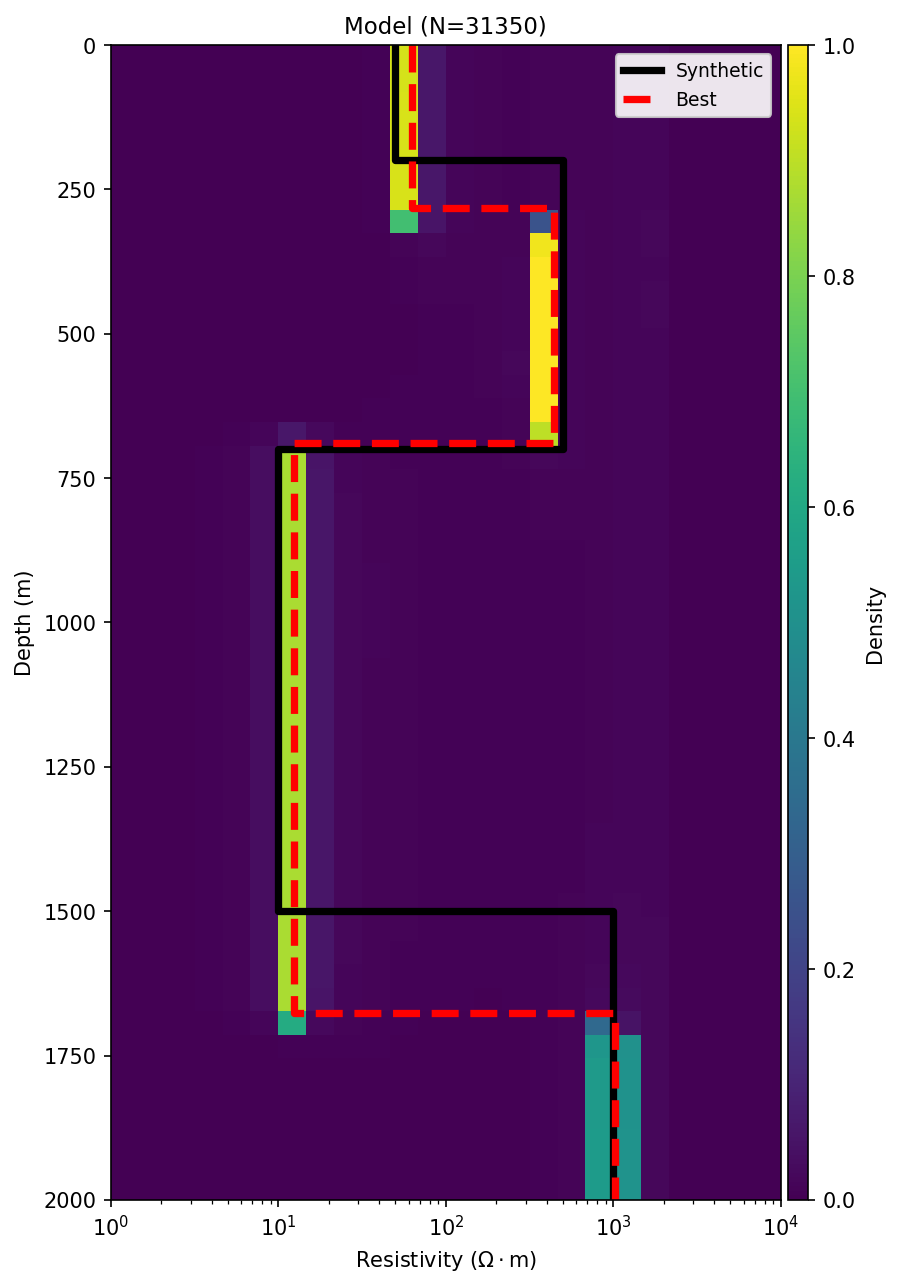
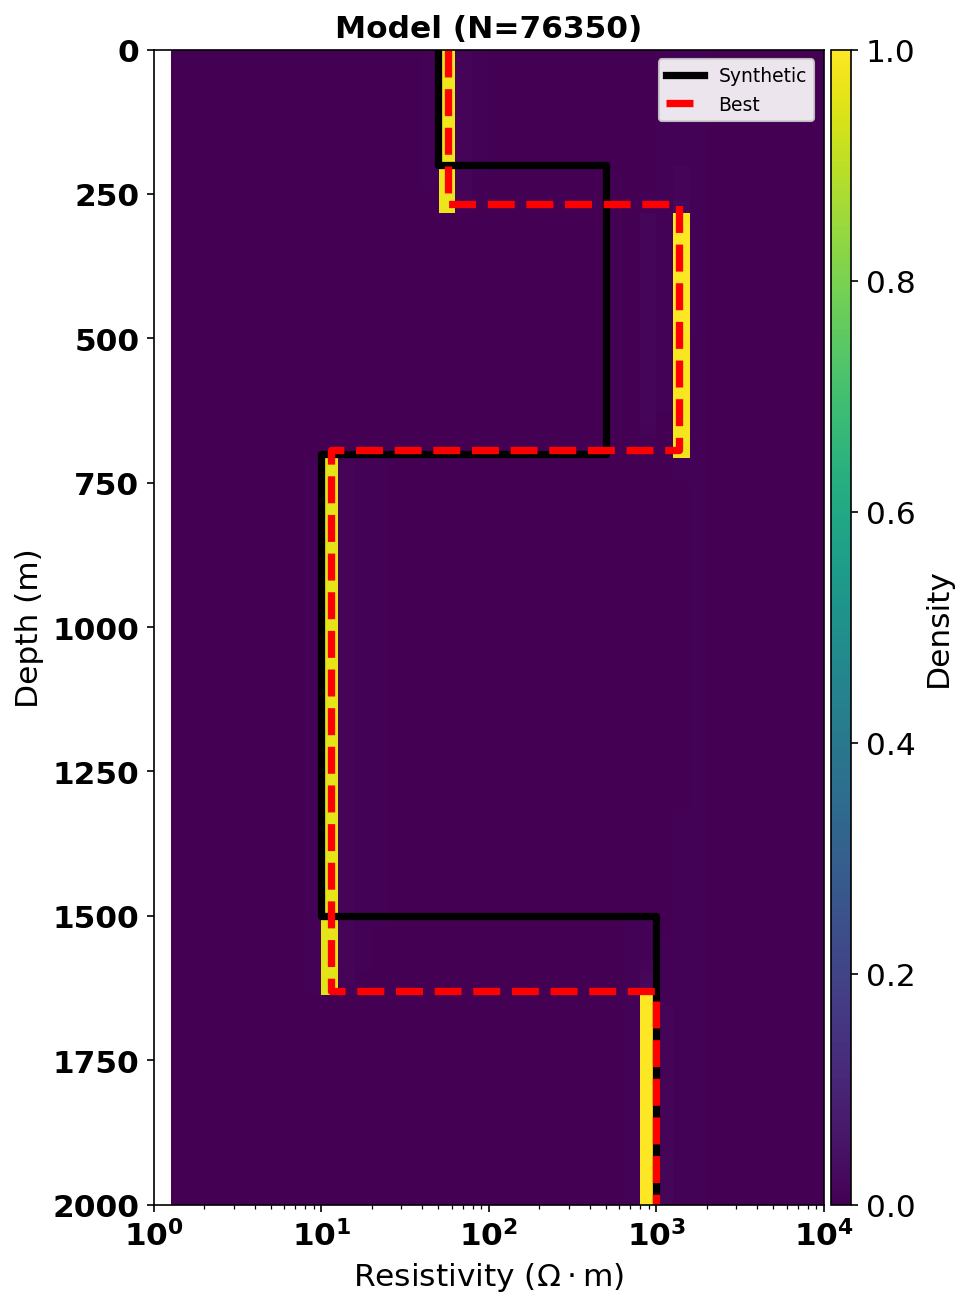
add posterior density

Changed region(s): [[0.0, 0.0, 0.9655, 0.9946], [0.9344, 0.4351, 0.9967, 0.5284]]

diff --git a/function.py b/function.py
@@ -213,7 +213,6 @@ def corner_plot(
 ):
     n_param = samples.shape[1]
 
-  
     if type == 1:
         param_names = ["x", "y"]
         title = "Rosenbrock Function Parameter"
@@ -227,8 +226,6 @@ def corner_plot(
         )
         title = f"MT 1D Inversion ({n_param//2+1} Layer)"
 
-  
-    
     fig, axes = plt.subplots(
         n_param, n_param,
         figsize=(2.5 * n_param, 2.5 * n_param),
@@ -243,10 +240,9 @@ def corner_plot(
                 ax.axis("off")
                 continue
 
-           
             if i == j:
                 orientation = "vertical"
-                if j==1 & type == 1:
+                if j == 1 and type == 1:
                     orientation = "horizontal"
                     
                 ax.hist(
@@ -257,32 +253,25 @@ def corner_plot(
                     orientation=orientation
                 )
 
-                if j==1 & type == 1:
+                if j == 1 and type == 1:
                     if true_model is not None:
                         ax.axhline(true_model[i], c="g", lw=3, label="True")
-
                     if best_model is not None:
                         ax.axhline(best_model[i], c="r", ls="--", lw=2, label="Best")
-
                     if mean is not None:
                         ax.axhline(mean[i], c="b", ls=":", lw=2, label="Mean")
-
                     if i == 0:
                         ax.legend(fontsize=8)
-                else :
+                else:
                     if true_model is not None:
                         ax.axvline(true_model[i], c="g", lw=3, label="True")
-
                     if best_model is not None:
                         ax.axvline(best_model[i], c="r", ls="--", lw=2, label="Best")
-
                     if mean is not None:
                         ax.axvline(mean[i], c="b", ls=":", lw=2, label="Mean")
-
                     if i == 0:
                         ax.legend(fontsize=8)
 
-          
             else:
                 ax.scatter(
                     samples[:, j],
@@ -291,44 +280,25 @@ def corner_plot(
                     alpha=alpha_scatter,
                     color="black"
                 )
-
                 if true_model is not None:
-                    ax.scatter(
-                        true_model[j],
-                        true_model[i],
-                        c="g",
-                        marker="o",
-                        s=80,
-                        zorder=10
-                    )
-
+                    ax.scatter(true_model[j], true_model[i], c="g", marker="o", s=80, zorder=10)
                 if best_model is not None:
-                    ax.scatter(
-                        best_model[j],
-                        best_model[i],
-                        c="r",
-                        marker="+",
-                        s=80,
-                        zorder=10
-                    )
-
+                    ax.scatter(best_model[j], best_model[i], c="r", marker="+", s=80, zorder=10)
                 if mean is not None:
-                    ax.scatter(
-                        mean[j],
-                        mean[i],
-                        c="b",
-                        marker="x",
-                        s=40,
-                        zorder=10
-                    )
+                    ax.scatter(mean[j], mean[i], c="b", marker="x", s=40, zorder=10)
 
-          
+            
             if i == n_param - 1:
                 ax.set_xlabel(param_names[j])
             else:
                 ax.set_xticks([])
 
-            if j == 0:
+            if i == j and type!= 1:
+                ax.yaxis.tick_right()
+                ax.yaxis.set_label_position("right")
+                ax.set_ylabel("Freq", fontsize=8, color="black")
+                ax.tick_params(axis='y', labelsize=8, colors="black")
+            elif j == 0:
                 ax.set_ylabel(param_names[i])
             else:
                 ax.set_yticks([])

diff --git a/MT/load_edi.py b/MT/load_edi.py
@@ -1,7 +1,6 @@
 import os
 import sys
 
-# Trik NumPy wajib untuk mtpy versi lama
 import numpy as np
 np.float = float
 np.int = int
@@ -10,7 +9,6 @@ np.complex = complex
 from mtpy.core.mt import MT
 import matplotlib.pyplot as plt
 
-# 1. Memeriksa argumen dari terminal (fitur drag and drop)
 if len(sys.argv) < 2:
     print("\n[ERROR] Format salah! Seret file .edi Anda ke terminal.")
     print("Contoh penggunaan: python load_edi.py <drag_file_ke_sini>\n")
@@ -23,7 +21,6 @@ if not os.path.exists(file_path):
     sys.exit(1)
 
 try:
-    # 2. Membaca data EDI
     mt = MT(file_path)
 
     freq = mt.Z.freq
@@ -31,15 +28,9 @@ try:
     phase_eff = mt.Z.phase_det
     periode = 1.0 / freq
 
-    # Mengambil nama file (misalnya 'saddle' atau 'keller')
     name_file = os.path.splitext(os.path.basename(file_path))[0]
     print(f"\n>>> Sukses memuat data: {name_file}.edi")
 
-    # =========================================================================
-    # 3. PROSES EKSPOR DATA DENGAN CUSTOM HEADER
-    # =========================================================================
-    
-    # Menentukan lokasi output file agar otomatis masuk ke folder 'MT' proyek Anda
     current_dir = os.path.dirname(os.path.abspath(__file__))
     input = input("untuk NA atau LM? (ketik 'NA' atau 'LM'): ").strip().upper()
 
@@ -53,19 +44,16 @@ try:
 
     output_path = os.path.join(current_dir, output_filename)
 
-    # Menggabungkan data menjadi tabel 3 kolom: Frekuensi | AppRes | Phase
     export_data = np.column_stack((freq, res_eff, phase_eff))
 
-    # Membuat text header dinamis mengikuti nama file yang di-drag
     header_text = f"Frequency(Hz_{name_file})\tAppRes(Ohm.m)\tPhase(deg)"
 
-    # Menyimpan file teks hasil ekstraksi
     np.savetxt(
         output_path, 
         export_data, 
         delimiter="\t", 
         header=header_text, 
-        comments=""  # Menghilangkan tanda '#' agar np.genfromtxt(..., skip_header=1) lancar
+        comments=""  
     )
 
     print("="*55)
@@ -74,9 +62,6 @@ try:
     print(f"Lokasi lengkap: {output_path}")
     print("="*55 + "\n")
 
-    # =========================================================================
-    # 4. PEMBUATAN PLOT VISUALISASI
-    # =========================================================================
     fig, ax1 = plt.subplots(figsize=(10, 5))
 
     ax1.loglog(periode, res_eff, 'ro-', label='AppRes (Zdet)')

diff --git a/main.py b/main.py
@@ -82,32 +82,39 @@ downsampling = min(int(input("Use n Ensemble 1-100% : ")), 100)
 
 filter = NP.linspace(0, len(misfits) - 1, int(len(misfits)*(downsampling/100)), dtype=int)
 
-models_filter  = models[filter]
+models_filter  = models[filter].copy()
 misfits_filter = misfits[filter]
 
-
+if type != 1:
+    models_filter[:,:n] = NP.log10(models_filter[:,:n]) 
+    
+    lb_log = list(NP.log10(lb[:n])) + list(lb[n:])
+    ub_log = list(NP.log10(ub[:n])) + list(ub[n:])
+    appraisal_bounds = tuple(zip(lb_log, ub_log))
+else:
+    # Jika Rosenbrock, biarkan bounds tetap linier
+    appraisal_bounds = tuple(zip(lb, ub))
 
 results = NAAppraiser(
     initial_ensemble=models_filter,
     log_ppd= -misfits_filter,
-    bounds = tuple(zip(lb, ub)),
+    bounds = appraisal_bounds,
     n_resample=10000,
     n_walkers=10
 )
 
 results.run()
 
-
-if type ==1 :
+if type == 1 :
     true_model = NP.array([1,1])
-
 else :
-     
+    results.samples[:,:n] = 10**(results.samples[:,:n])
+    results.mean[:n] = 10**(results.mean[:n])
+    
     if ResReal[0] == 0 :
         true_model = None
     else :
         true_model = NP.hstack((ResReal, ThkReal))
-
 
 corner_plot(
     type=type,
@@ -116,6 +123,9 @@ corner_plot(
     best_model=best_model,
     true_model=true_model,
 )
+
+if type != 1:
+    plot_all_models(results.samples,Resis,Thick,ResReal,ThkReal,n,save_path=f"Images/model_{n}layer_PosteriorDense.png", depthmax=maxdepth)
 
 print("mean", results.mean)
 print("smple mean err", results.sample_mean_error)

diff --git a/README.md b/README.md
@@ -4,13 +4,10 @@
 [![License: MIT](https://img.shields.io/badge/License-MIT-yellow.svg)](https://opensource.org/licenses/MIT)
 
 <p align="center">
-  <img src="Images/curve_5layer.png" width="245">
-  <img src="Images/model_5layer.png" width="215">
+  <img src="Images/rosenbrock.png" width="315">
+  <img src="Images/Rosenbrock Function Parameter.png" width="245">
 </p>
 
-<p align="center">
-  <img src="Images/MT 1D Inversion (5 Layer).png" width="500">
-</p>
 
 This repository contains a high-performance Python implementation of the *Neighborhood Algorithm* (Sambridge, 1999). It is optimized using multi-core parallelization (`joblib`) and Just-In-Time compilation (`Numba JIT`) for 1D Magnetotelluric (MT) data inversion and uncertainty quantification.
 
